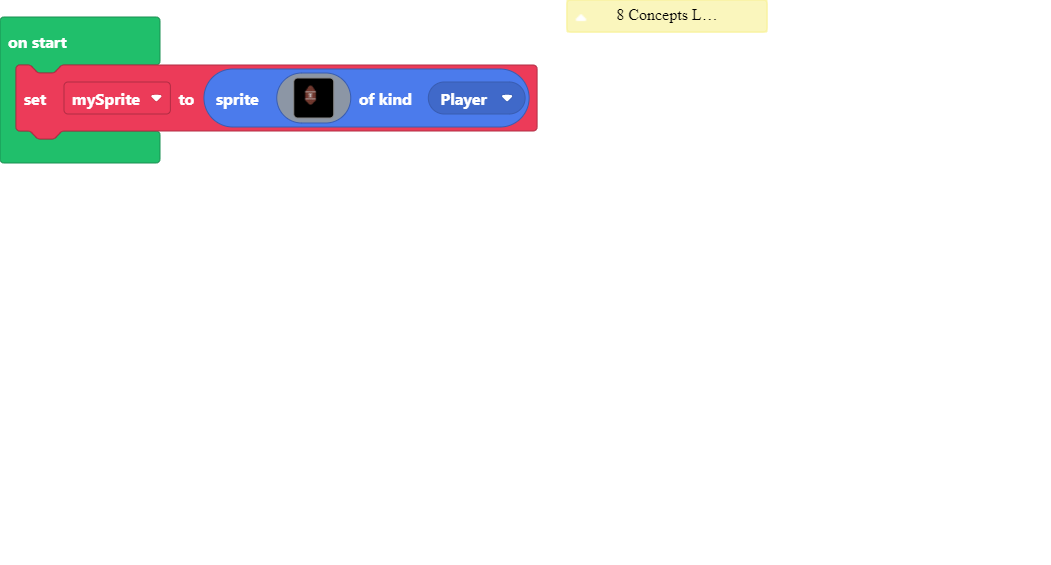
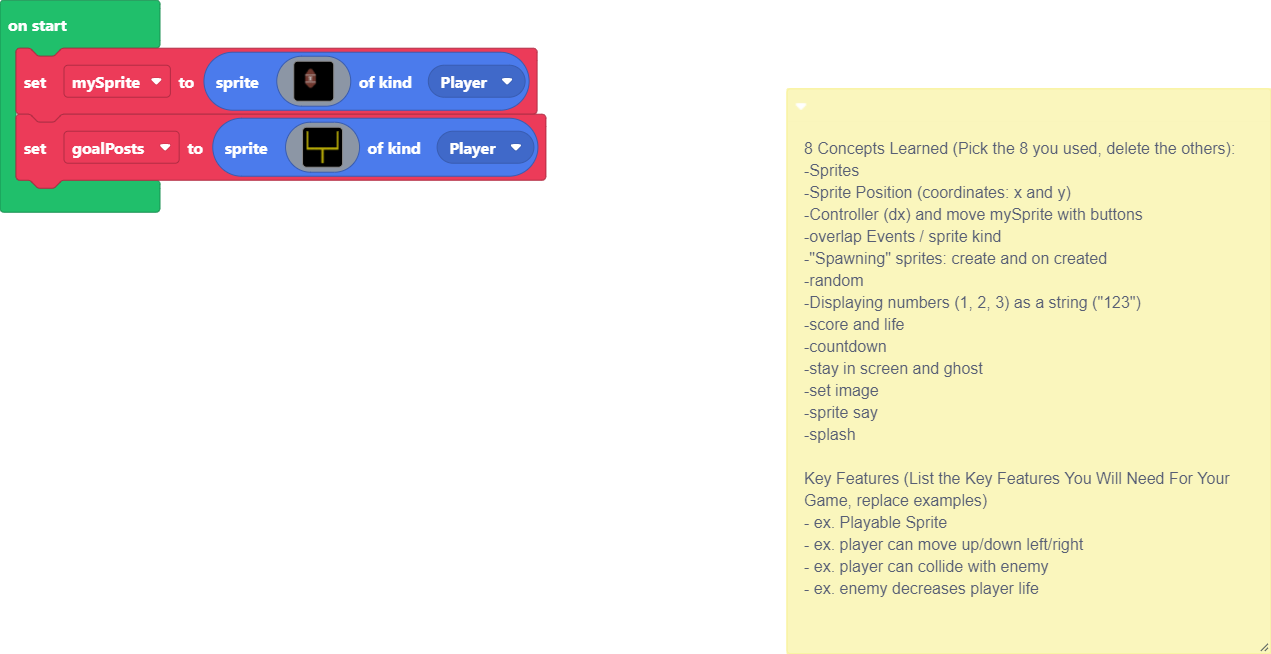
Added goalposts sprite.

diff --git a/main.ts b/main.ts
@@ -89,3 +89,105 @@ let mySprite = sprites.create(img`
     ..................................................
     ..................................................
     `, SpriteKind.Player)
+let goalPosts = sprites.create(img`
+    55555..........................................................................................55555
+    55555..........................................................................................55555
+    55555..........................................................................................55555
+    55555..........................................................................................55555
+    55555..........................................................................................55555
+    55555..........................................................................................55555
+    55555..........................................................................................55555
+    55555..........................................................................................55555
+    55555..........................................................................................55555
+    55555..........................................................................................55555
+    55555..........................................................................................55555
+    55555..........................................................................................55555
+    55555..........................................................................................55555
+    55555..........................................................................................55555
+    55555..........................................................................................55555
+    55555..........................................................................................55555
+    55555..........................................................................................55555
+    55555..........................................................................................55555
+    55555..........................................................................................55555
+    55555..........................................................................................55555
+    55555..........................................................................................55555
+    55555..........................................................................................55555
+    55555..........................................................................................55555
+    55555..........................................................................................55555
+    55555..........................................................................................55555
+    55555..........................................................................................55555
+    55555..........................................................................................55555
+    55555..........................................................................................55555
+    55555..........................................................................................55555
+    55555..........................................................................................55555
+    55555..........................................................................................55555
+    55555..........................................................................................55555
+    55555..........................................................................................55555
+    55555..........................................................................................55555
+    55555..........................................................................................55555
+    55555..........................................................................................55555
+    55555..........................................................................................55555
+    55555..........................................................................................55555
+    55555..........................................................................................55555
+    55555..........................................................................................55555
+    55555..........................................................................................55555
+    55555..........................................................................................55555
+    55555..........................................................................................55555
+    55555..........................................................................................55555
+    55555..........................................................................................55555
+    55555..........................................................................................55555
+    55555..........................................................................................55555
+    55555..........................................................................................55555
+    55555..........................................................................................55555
+    55555..........................................................................................55555
+    55555..........................................................................................55555
+    5555555555555555555555555555555555555555555555555555555555555555555555555555555555555555555555555555
+    5555555555555555555555555555555555555555555555555555555555555555555555555555555555555555555555555555
+    5555555555555555555555555555555555555555555555555555555555555555555555555555555555555555555555555555
+    5555555555555555555555555555555555555555555555555555555555555555555555555555555555555555555555555555
+    5555555555555555555555555555555555555555555555555555555555555555555555555555555555555555555555555555
+    5555555555555555555555555555555555555555555555555555555555555555555555555555555555555555555555555555
+    ...............................................555555...............................................
+    ...............................................555555...............................................
+    ...............................................555555...............................................
+    ...............................................555555...............................................
+    ...............................................555555...............................................
+    ...............................................555555...............................................
+    ...............................................555555...............................................
+    ...............................................555555...............................................
+    ...............................................555555...............................................
+    ...............................................555555...............................................
+    ...............................................555555...............................................
+    ...............................................555555...............................................
+    ...............................................555555...............................................
+    ...............................................555555...............................................
+    ...............................................555555...............................................
+    ...............................................555555...............................................
+    ...............................................555555...............................................
+    ...............................................555555...............................................
+    ...............................................555555...............................................
+    ...............................................555555...............................................
+    ...............................................555555...............................................
+    ...............................................555555...............................................
+    ...............................................555555...............................................
+    ...............................................555555...............................................
+    ...............................................555555...............................................
+    ...............................................555555...............................................
+    ...............................................555555...............................................
+    ...............................................555555...............................................
+    ...............................................555555...............................................
+    ...............................................555555...............................................
+    ...............................................555555...............................................
+    ...............................................555555...............................................
+    ...............................................555555...............................................
+    ...............................................555555...............................................
+    ...............................................555555...............................................
+    ...............................................555555...............................................
+    ...............................................555555...............................................
+    ...............................................555555...............................................
+    ...............................................555555...............................................
+    ...............................................555555...............................................
+    ...............................................555555...............................................
+    ...............................................555555...............................................
+    ...............................................555555...............................................
+    `, SpriteKind.Player)
